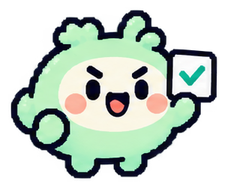
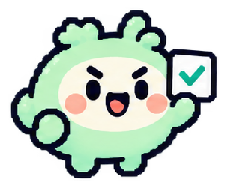
feat: 11개 장면 예시 공방 대본, 깡이·로고 도트 경계 살리기
- 모든 장면에 장면별 근거(가정·확인 필요), 판깡이 질문, 답에 따른 주장 수정/추가
- 제품 수치는 쓰지 않음, 일부 장면은 살깡이가 범위를 좁혀 인정(pro_revise)
- 장면 12개 전부 질문·답 갱신·편 유지 테스트
- 깡이·로고 축소를 NEAREST로 바꿔 도트 느낌 유지

diff --git a/backend/app/hearing.py b/backend/app/hearing.py
@@ -147,19 +147,186 @@ def _rv_clutter(reason: str, answer: str | None) -> Hearing:
     return Hearing(scene_id="rv_clutter", mode="mock", evidence=evidence, claims=claims, question=question, answered=answer)
 
 
-def _generic(scene_id: str, reason: str) -> Hearing:
-    # shortcut: rv_clutter 외 장면은 공통 틀. AI 연동(feature/ai-scene-planner) 때 장면별 내용으로 대체.
+# 장면별 예시 대본. 제품 수치는 쓰지 않는다: 조건은 '가정', 제품 성능은 '확인 필요'로만.
+# no_mode: con_add = '아니요' 답에 말깡이가 이어서 짚음, pro_revise = 살깡이가 범위를 좁혀 인정.
+SCRIPTS: dict[str, dict[str, str]] = {
+    "rv_daily": {
+        "assume": "외출한 동안 청소기가 정해진 시간에 집 안을 돈다고 가정",
+        "check": "이 제품의 주행 방식과 문턱·러그 넘기 능력은 자료로 확인되지 않았어요.",
+        "pro": "퇴근하고 오면 바닥이 이미 정리돼 있어요! 매일 청소기를 꺼내는 일이 줄어요.",
+        "con": "근데 문턱이나 두꺼운 러그가 있으면, 청소기가 집 안을 다 돌 수 있을까요?",
+        "q": "집에 문턱이나 두꺼운 러그가 많은가요?",
+        "ok": "거의 없어요",
+        "no": "꽤 있어요",
+        "ok_text": "문턱·러그가 거의 없다면, 주행 걱정은 큰 단점에서 빼도 되겠어요.",
+        "ok_reason": "사용자가 문턱·러그가 거의 없다고 답했어요. 주행 성능 자체는 여전히 확인 필요예요.",
+        "no_mode": "con_add",
+        "no_text": "문턱·러그가 많다면 청소가 안 되는 구역이 생길 수 있어요. 넘을 수 있는 높이를 꼭 확인해 보세요.",
+    },
+    "rv_maintenance": {
+        "assume": "먼지통 비우기와 브러시에 감긴 머리카락 정리를 직접 한다고 가정",
+        "check": "자동 먼지 비움 지원 여부와 소모품 교체 주기는 자료로 확인되지 않았어요.",
+        "pro": "바닥 청소 시간을 생각하면, 먼지통 비우는 몇 분은 훨씬 가벼워요!",
+        "con": "머리카락이 브러시에 감기면 손으로 풀어야 해요. 그 일, 꾸준히 할 수 있으세요?",
+        "q": "주 1~2회 먼지통·브러시 관리, 괜찮나요?",
+        "ok": "괜찮아요",
+        "no": "그것도 귀찮아요",
+        "ok_text": "관리를 감당할 수 있다면, 이 부담은 결정적인 단점은 아니에요.",
+        "ok_reason": "사용자가 주기적인 관리를 감수할 수 있다고 답했어요.",
+        "no_mode": "pro_revise",
+        "no_text": "관리 부담은 인정해요. 그래도 매일 바닥 청소보다는 짧아요. 자동 비움이 되는지 확인하면 더 줄일 수 있어요.",
+        "no_reason": "사용자가 관리도 귀찮다고 답해서, 편익을 '관리가 남아도 청소보다 짧다'로 좁혔어요.",
+    },
+    "dw_load": {
+        "assume": "식사 후 식기를 바로 칸에 맞춰 넣는다고 가정",
+        "check": "애벌 헹굼이 필요한지와 1회 세척 시간은 이 제품 자료로 확인되지 않았어요.",
+        "pro": "밥 먹고 그릇 넣고 버튼만 누르면 돼요! 고무장갑 낄 일이 확 줄어요.",
+        "con": "근데 식기를 칸에 맞춰 넣고 빼는 것도 일이에요. 그 정리는 괜찮으세요?",
+        "q": "식기를 칸에 맞춰 넣고 빼는 정리, 괜찮나요?",
+        "ok": "괜찮아요",
+        "no": "그것도 번거로워요",
+        "ok_text": "넣고 빼는 정리를 감당할 수 있다면, 이 부담은 작아요.",
+        "ok_reason": "사용자가 식기 정리를 감수할 수 있다고 답했어요.",
+        "no_mode": "con_add",
+        "no_text": "넣고 빼는 정리도 부담이라면, 설거지가 줄어든 만큼 다른 정리 일이 생길 수 있어요.",
+    },
+    "dw_constraint": {
+        "assume": "웍·큰 냄비처럼 큰 조리도구를 자주 쓴다고 가정",
+        "check": "큰 냄비가 들어가는지(내부 높이, 선반 조절)는 이 제품 자료로 확인되지 않았어요.",
+        "pro": "자주 쓰는 밥그릇·접시만 맡겨도 설거지 대부분이 줄어요!",
+        "con": "큰 냄비랑 프라이팬은 결국 손으로 씻어야 하지 않을까요?",
+        "q": "큰 조리도구는 손설거지해도 괜찮나요?",
+        "ok": "괜찮아요",
+        "no": "그것도 넣고 싶어요",
+        "ok_text": "큰 것만 손으로 씻어도 괜찮다면, 이 단점은 작아져요.",
+        "ok_reason": "사용자가 큰 조리도구는 손설거지해도 된다고 답했어요.",
+        "no_mode": "pro_revise",
+        "no_text": "큰 냄비까지 맡기고 싶다면 그건 장담 못 해요. 선반 높이 조절이 되는지 먼저 확인해 보세요.",
+        "no_reason": "사용자가 큰 조리도구도 넣고 싶다고 해서, 편익을 일상 식기로 좁혔어요.",
+    },
+    "dw_maintenance": {
+        "assume": "필터에 쌓인 음식물 찌꺼기를 주기적으로 꺼내 씻는다고 가정",
+        "check": "필터 세척 주기와 자동 세척 기능은 이 제품 자료로 확인되지 않았어요.",
+        "pro": "필터 청소는 가끔이에요. 매 끼니 설거지보다 훨씬 드물어요!",
+        "con": "필터에 남은 음식물 찌꺼기는 손으로 꺼내야 해요. 냄새 관리도 신경 쓰이지 않을까요?",
+        "q": "가끔 필터를 꺼내 씻는 건 괜찮나요?",
+        "ok": "괜찮아요",
+        "no": "손대기 싫어요",
+        "ok_text": "가끔 필터 세척을 할 수 있다면, 이 부담은 결정적이지 않아요.",
+        "ok_reason": "사용자가 필터 세척을 감수할 수 있다고 답했어요.",
+        "no_mode": "con_add",
+        "no_text": "필터 세척을 미루면 냄새가 생기기 쉬워요. 관리 알림이나 자동 세척이 있는지 확인해 보세요.",
+    },
+    "dr_cycle": {
+        "assume": "세탁이 끝나면 빨래를 바로 건조기로 옮긴다고 가정",
+        "check": "1회 건조 시간과 이 제품의 전기 사용량은 자료로 확인되지 않았어요.",
+        "pro": "빨래 널고 걷는 일이 사라져요! 비 오는 날 걱정도 없고요.",
+        "con": "세탁 끝나고 바로 못 옮기면 냄새나 구김이 생길 수 있어요. 바로 옮길 수 있으세요?",
+        "q": "세탁이 끝나면 바로 건조기로 옮길 수 있나요?",
+        "ok": "대부분 가능해요",
+        "no": "자주 못 해요",
+        "ok_text": "바로 옮길 수 있다면, 이 걱정은 크지 않아요.",
+        "ok_reason": "사용자가 대부분 바로 옮길 수 있다고 답했어요.",
+        "no_mode": "con_add",
+        "no_text": "자주 못 옮긴다면 세탁기에 빨래가 오래 남아요. 예약·연동 기능이 있는지 확인해 보세요.",
+    },
+    "dr_constraint": {
+        "assume": "니트·울·기능성 옷처럼 건조기에 넣기 어려운 옷이 섞여 있다고 가정",
+        "check": "옷감별 전용 코스 지원 여부는 이 제품 자료로 확인되지 않았어요.",
+        "pro": "수건·속옷·티셔츠 같은 일상 빨래는 거의 다 맡길 수 있어요!",
+        "con": "니트나 울은 줄어들 수 있어요. 결국 일부는 따로 널어야 하지 않을까요?",
+        "q": "건조기에 못 넣는 옷은 따로 널어도 괜찮나요?",
+        "ok": "괜찮아요",
+        "no": "다 넣고 싶어요",
+        "ok_text": "일부만 따로 널어도 괜찮다면, 이 단점은 작아져요.",
+        "ok_reason": "사용자가 일부 옷은 따로 널어도 된다고 답했어요.",
+        "no_mode": "pro_revise",
+        "no_text": "모든 옷을 맡기고 싶다면 그건 장담 못 해요. 옷감별 코스가 있는지 먼저 확인해 보세요.",
+        "no_reason": "사용자가 모든 옷을 넣고 싶다고 해서, 편익을 일상 빨래로 좁혔어요.",
+    },
+    "dr_maintenance": {
+        "assume": "건조할 때마다 먼지 필터를 비우고, 물통이 있다면 직접 버린다고 가정",
+        "check": "배수관 연결 가능 여부와 필터 자동 세척 기능은 확인되지 않았어요.",
+        "pro": "필터 비우기는 금방이에요. 빨래 너는 시간에 비하면 훨씬 짧아요!",
+        "con": "매번 필터를 비우고 물통도 버려야 할 수 있어요. 깜빡하면 건조가 잘 안 되지 않을까요?",
+        "q": "건조할 때마다 필터·물통 비우기, 괜찮나요?",
+        "ok": "괜찮아요",
+        "no": "부담돼요",
+        "ok_text": "매번 비우기를 감당할 수 있다면, 이 부담은 결정적이지 않아요.",
+        "ok_reason": "사용자가 매번 비우기를 감수할 수 있다고 답했어요.",
+        "no_mode": "con_add",
+        "no_text": "매번 비우기가 부담이면, 배수관 직결이 되는 설치 환경인지 먼저 확인해 보세요.",
+    },
+    "ap_run": {
+        "assume": "거실에 두고 하루 대부분 켜 둔다고 가정",
+        "check": "이 제품의 실제 정화 면적과 전기 사용량은 확인되지 않았어요.",
+        "pro": "켜 두기만 하면 공기를 알아서 관리해요! 신경 쓸 일이 적어요.",
+        "con": "거실 크기에 비해 작으면 효과가 덜할 수 있어요. 둘 자리는 충분한가요?",
+        "q": "거실에 공기청정기 둘 자리가 넉넉한가요?",
+        "ok": "넉넉해요",
+        "no": "좀 좁아요",
+        "ok_text": "자리가 넉넉하다면, 놓을 곳 걱정은 빼도 되겠어요.",
+        "ok_reason": "사용자가 둘 자리가 넉넉하다고 답했어요. 정화 면적은 여전히 확인 필요예요.",
+        "no_mode": "con_add",
+        "no_text": "자리가 좁으면 벽에 붙여 두게 되고, 공기 흐름이 막힐 수 있어요. 제품 크기를 꼭 재 보세요.",
+    },
+    "ap_night": {
+        "assume": "불을 끈 침실에서 밤새 켜 둔다고 가정",
+        "check": "수면 모드의 실제 소음 크기와 표시등 끄기 기능은 확인되지 않았어요.",
+        "pro": "자는 동안에도 공기를 관리해 줘요! 아침 공기가 달라질 수 있어요.",
+        "con": "작은 소음이나 불빛에도 잠을 설치는 편이라면, 그게 거슬리지 않을까요?",
+        "q": "잘 때 작은 소리나 불빛에 예민한 편인가요?",
+        "ok": "별로 안 예민해요",
+        "no": "예민해요",
+        "ok_text": "소리·불빛에 예민하지 않다면, 밤 사용 걱정은 작아요.",
+        "ok_reason": "사용자가 소리·불빛에 예민하지 않다고 답했어요.",
+        "no_mode": "pro_revise",
+        "no_text": "예민하다면 밤에는 장점이 줄어요. 수면 모드 소음과 조명 끄기를 꼭 확인해 보세요.",
+        "no_reason": "사용자가 소리·불빛에 예민하다고 해서, 밤 사용 편익을 조건부로 좁혔어요.",
+    },
+    "ap_filter": {
+        "assume": "필터를 정해진 주기마다 새것으로 바꾼다고 가정",
+        "check": "필터 교체 주기와 필터 가격은 이 제품 자료로 확인되지 않았어요.",
+        "pro": "필터만 바꿔 주면 깨끗한 공기를 계속 유지할 수 있어요!",
+        "con": "필터 값이 계속 나가요. 교체 시기를 놓치면 효과도 떨어지지 않을까요?",
+        "q": "필터 교체 비용을 꾸준히 낼 수 있나요?",
+        "ok": "괜찮아요",
+        "no": "부담돼요",
+        "ok_text": "유지비를 감당할 수 있다면, 이 부담은 결정적이지 않아요.",
+        "ok_reason": "사용자가 필터 비용을 감수할 수 있다고 답했어요.",
+        "no_mode": "con_add",
+        "no_text": "유지비가 부담이면, 필터 가격과 교체 주기를 구매 전에 꼭 비교해 보세요.",
+    },
+}
+
+
+def _scripted(scene_id: str, reason: str, answer: str | None) -> Hearing:
+    sc = SCRIPTS[scene_id]
     evidence = [
         Evidence(id="e_reason", kind="user_statement", text=f"구매 이유: “{reason}”"),
-        Evidence(id="e_scene", kind="assumption", text="이 장면의 조건이 내 생활에도 해당한다고 가정"),
-        Evidence(id="e_spec", kind="unverified", text="관련 사양과 관리 방법은 아직 제품 자료로 확인되지 않았어요."),
+        Evidence(id="e_scene", kind="assumption", text=sc["assume"]),
+        Evidence(id="e_check", kind="unverified", text=sc["check"]),
     ]
     claims = [
-        Claim(id="c_pro_1", side="pro", text="이 장면에서 기대하는 편익은 구매 이유와 연결돼요.", evidence_ids=["e_reason"]),
-        Claim(id="c_con_1", side="con", text="장면의 조건과 관리 부담이 실제로도 감당할 만한지는 자료 확인이 필요해요.",
-              evidence_ids=["e_scene", "e_spec"], replies_to="c_pro_1"),
+        Claim(id="c_pro_1", side="pro", text=sc["pro"], evidence_ids=["e_reason"]),
+        Claim(id="c_con_1", side="con", text=sc["con"], evidence_ids=["e_scene", "e_check"], replies_to="c_pro_1"),
     ]
-    return Hearing(scene_id=scene_id, mode="mock", evidence=evidence, claims=claims, question=None, answered=None)
+    question = Question(id=f"q_{scene_id}", text=sc["q"],
+                        options=[Option(id="ok", label=sc["ok"]), Option(id="no", label=sc["no"])])
+    if answer in ("ok", "no"):
+        evidence.append(Evidence(id="e_ans", kind="user_statement", text=f"사용자 답: {sc[answer]}"))
+        if answer == "ok":
+            claims[1] = claims[1].model_copy(update={
+                "text": sc["ok_text"], "evidence_ids": ["e_scene", "e_check", "e_ans"],
+                "status": "revised", "change_reason": sc["ok_reason"]})
+        elif sc["no_mode"] == "pro_revise":
+            claims[0] = claims[0].model_copy(update={
+                "text": sc["no_text"], "evidence_ids": ["e_reason", "e_ans", "e_check"],
+                "status": "revised", "change_reason": sc["no_reason"]})
+        else:
+            claims.append(Claim(id="c_con_2", side="con", text=sc["no_text"],
+                                evidence_ids=["e_ans", "e_check"], replies_to="c_con_1"))
+    return Hearing(scene_id=scene_id, mode="mock", evidence=evidence, claims=claims, question=question, answered=answer)
 
 
 MOCK_ANSWERS = (None, "ok", "no", "skip")
@@ -172,12 +339,12 @@ def check_scene(req: HearingRequest) -> None:
 
 def mock_hearing(req: HearingRequest) -> Hearing:
     check_scene(req)
+    if req.answer not in MOCK_ANSWERS:
+        raise HearingError("없는 선택지예요.")
     if req.scene_id == "rv_clutter":
-        if req.answer not in MOCK_ANSWERS:
-            raise HearingError("없는 선택지예요.")
         h = _rv_clutter(req.reason, req.answer)
     else:
-        h = _generic(req.scene_id, req.reason)
+        h = _scripted(req.scene_id, req.reason, req.answer)
     validate(h, set(req.source_ids))
     return h
 

diff --git a/backend/tests/test_hearing.py b/backend/tests/test_hearing.py
@@ -1,7 +1,7 @@
 import pytest
 from fastapi.testclient import TestClient
 
-from app.hearing import Claim, Evidence, Hearing, HearingError, validate
+from app.hearing import SCENE_IDS, Claim, Evidence, Hearing, HearingError, validate
 from app.main import app
 
 client = TestClient(app)
@@ -42,9 +42,17 @@ def test_rejects_scene_of_other_category_and_unknown_answer():
     assert post(answer="maybe").status_code == 422
 
 
-def test_every_scene_has_a_valid_hearing():
-    for cat, scene in [("dishwasher", "dw_load"), ("dryer", "dr_cycle"), ("air_purifier", "ap_night"), ("robot_vacuum", "rv_daily")]:
-        assert post(category=cat, scene_id=scene).status_code == 200
+@pytest.mark.parametrize("cat, scene", [(c.value, s) for c, ids in SCENE_IDS.items() for s in ids])
+def test_every_scene_has_question_and_answers_update_claims(cat, scene):
+    base = post(category=cat, scene_id=scene).json()
+    assert base["question"] and [o["id"] for o in base["question"]["options"]] == ["ok", "no"]
+    assert {e["kind"] for e in base["evidence"]} >= {"assumption", "unverified"}  # 조건은 가정, 성능은 확인 필요
+    ok = post(category=cat, scene_id=scene, answer="ok").json()
+    assert any(c["status"] == "revised" and c["change_reason"] for c in ok["claims"])
+    no = post(category=cat, scene_id=scene, answer="no").json()
+    assert no["claims"] != base["claims"] and any(e["kind"] == "unverified" for e in no["evidence"])
+    sides = {c["id"]: c["side"] for c in base["claims"]}
+    assert all(sides.get(c["id"], c["side"]) == c["side"] for c in ok["claims"] + no["claims"])  # 편이 바뀌지 않음
 
 
 def _h(claims, evidence=None):
